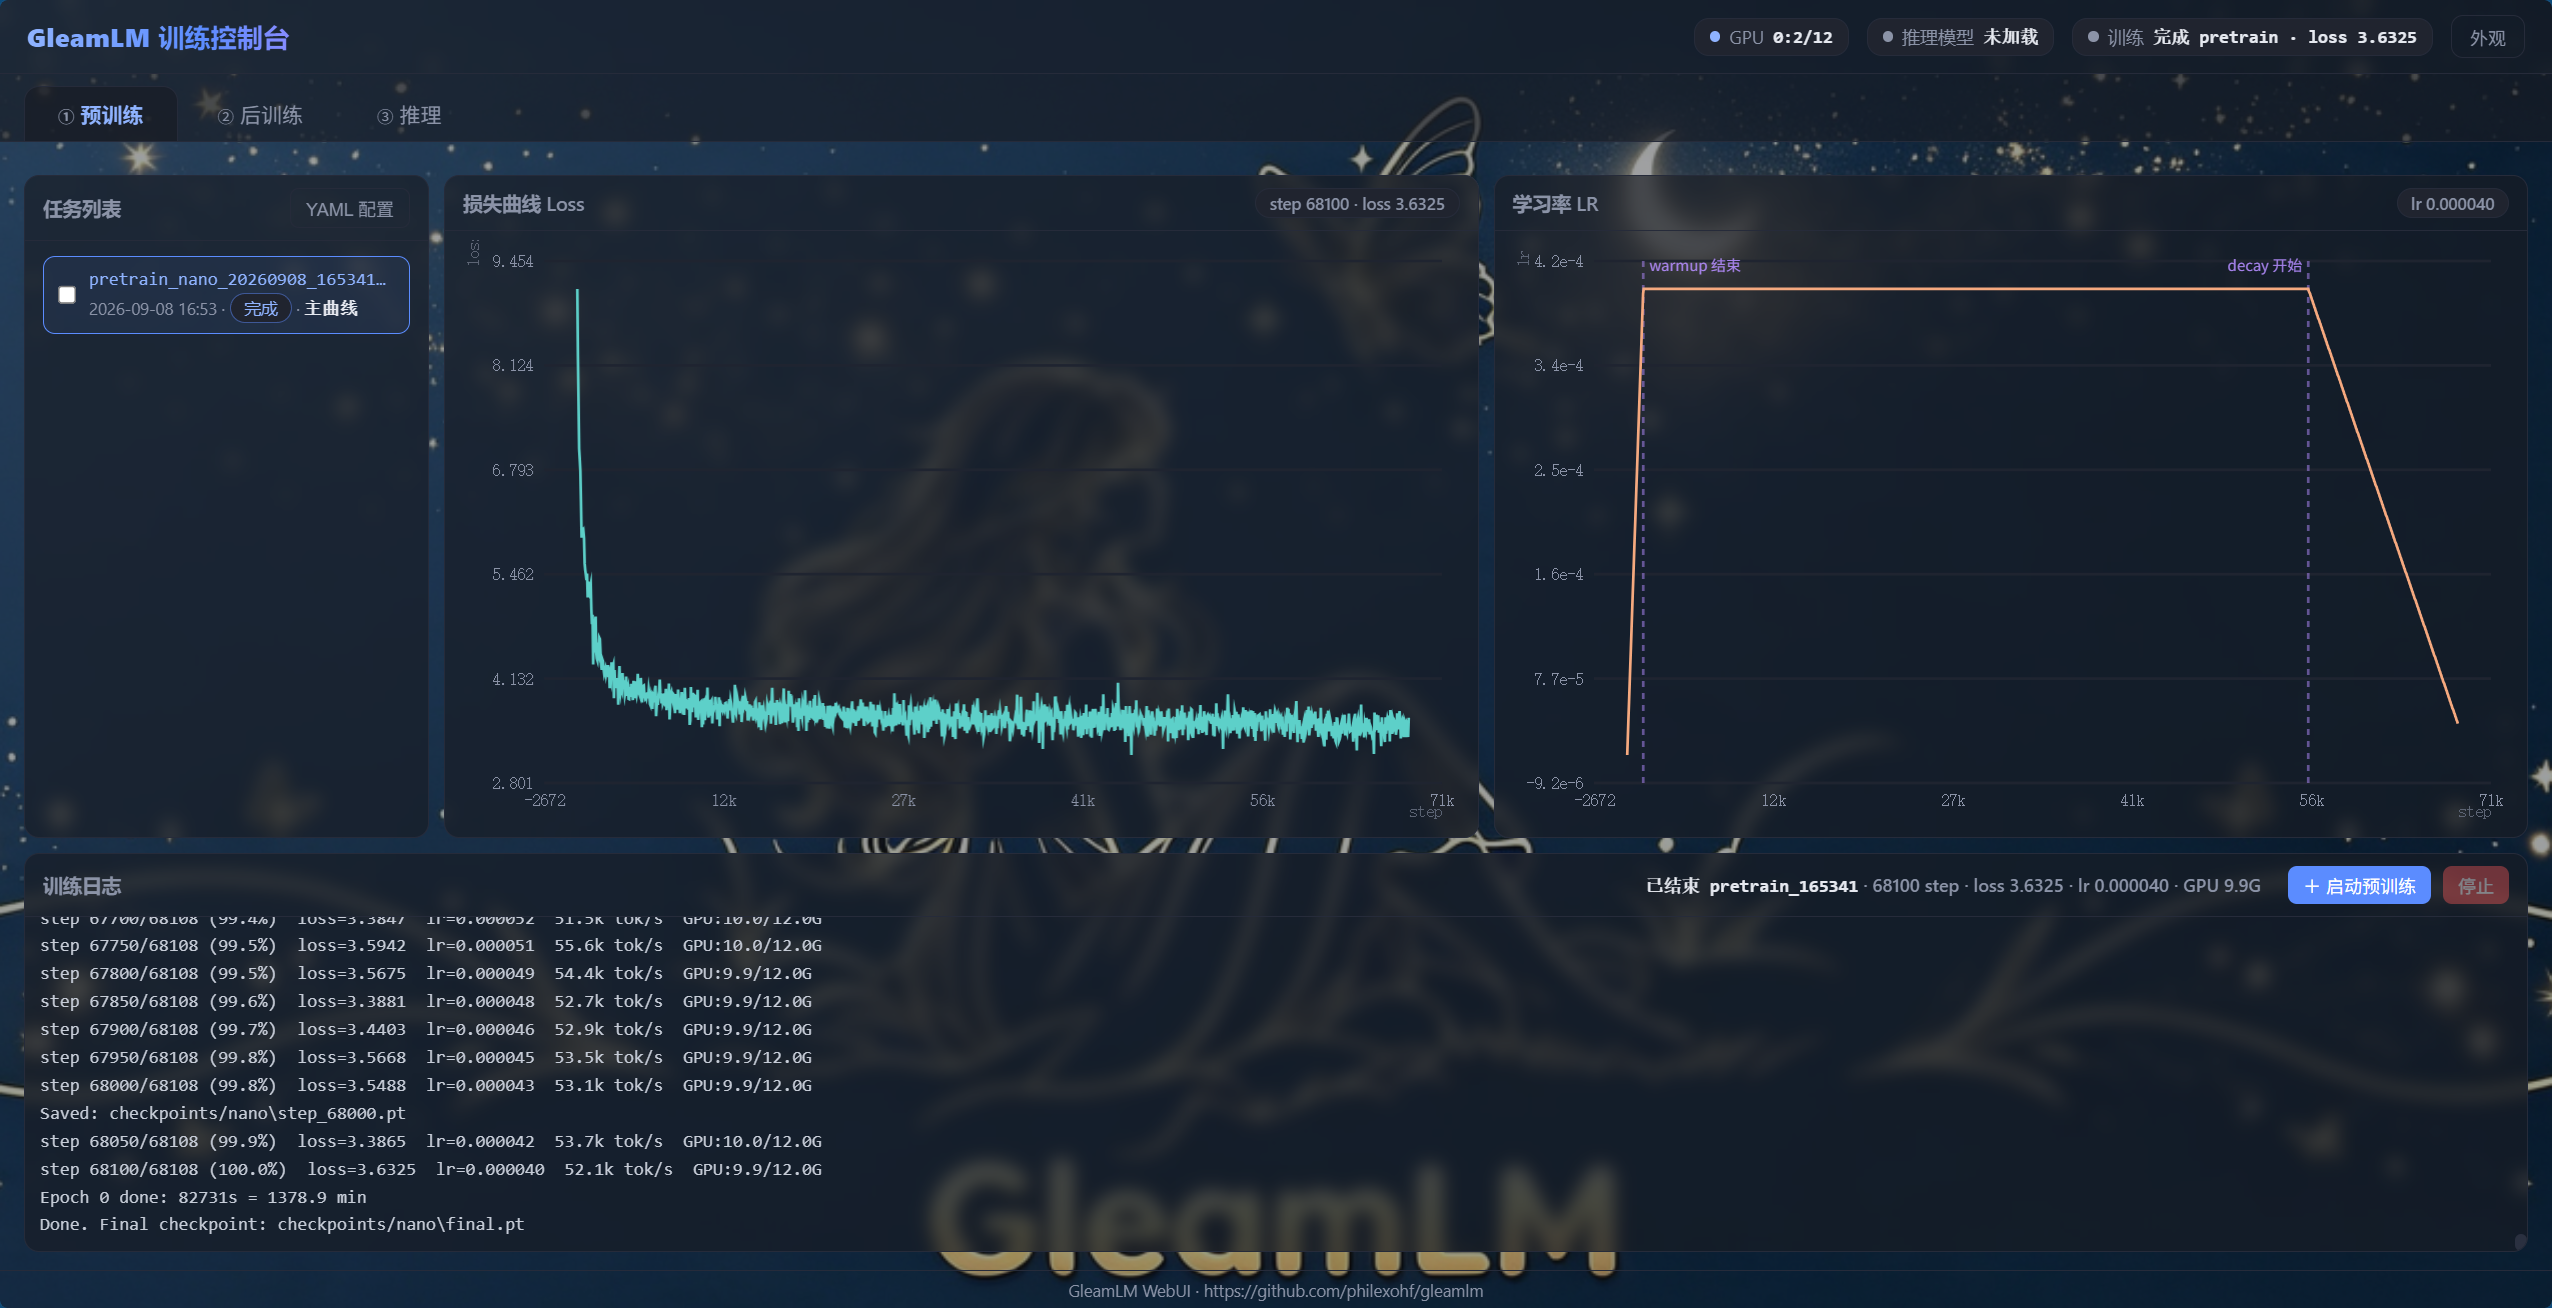
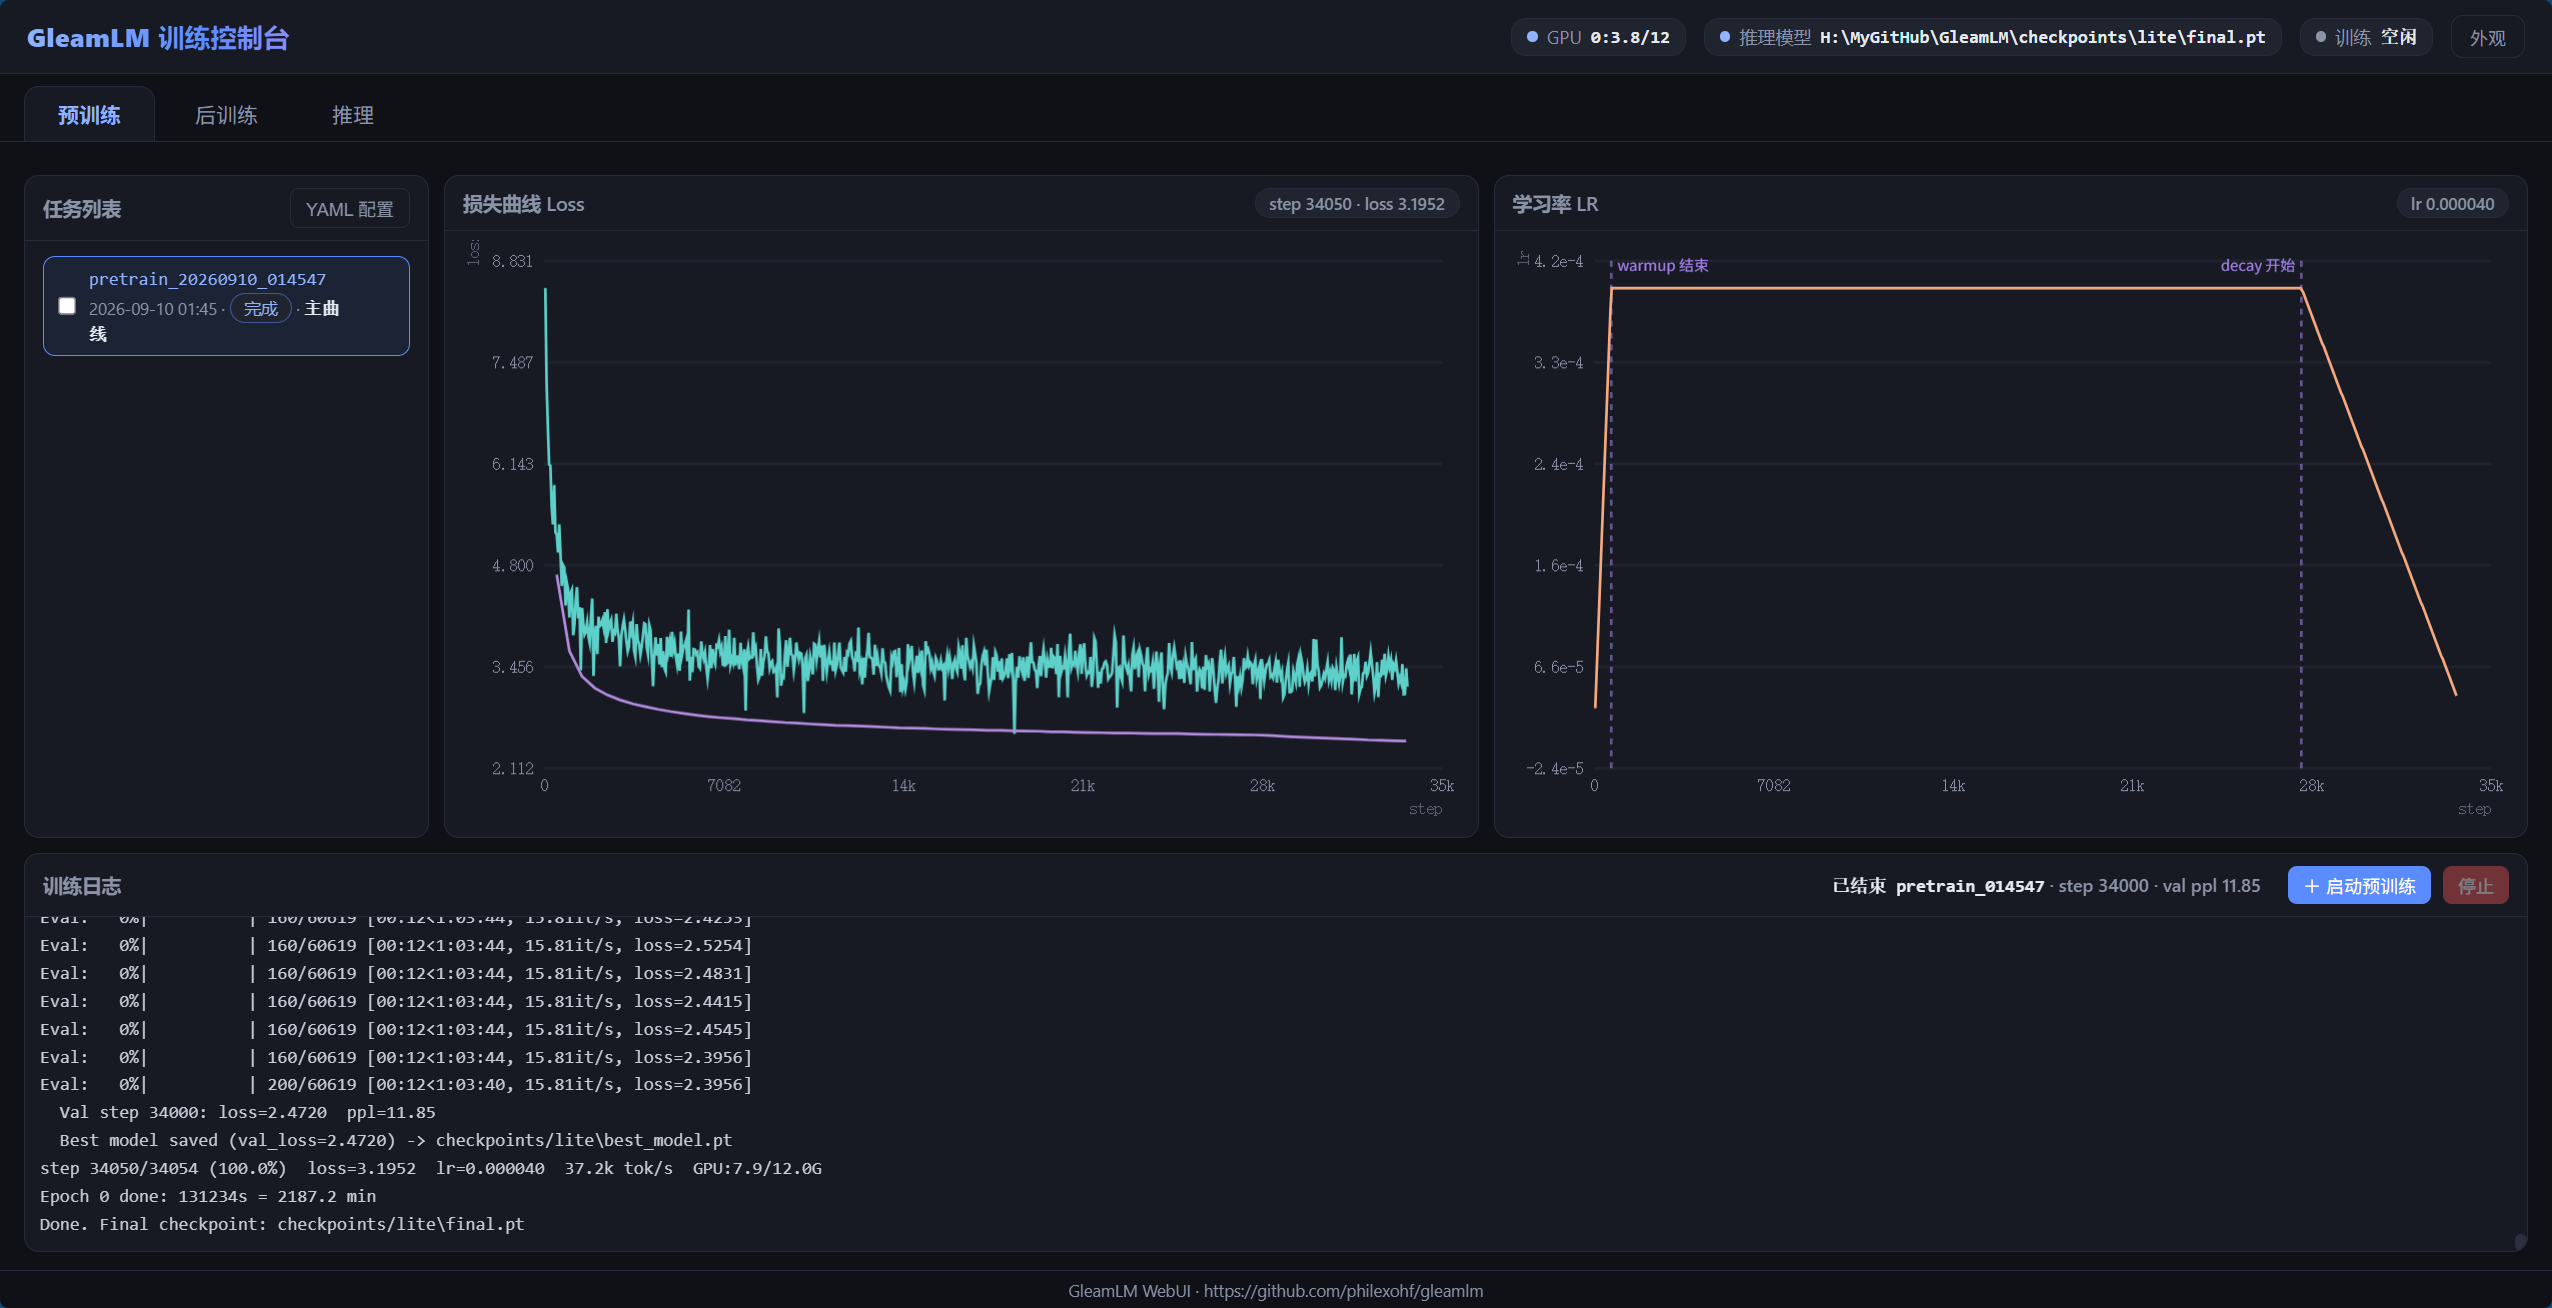
fix: live check requires running, auto replay on load
pretrain/posttrain live id helpers gated on running; replay clears log first; refresh GUI screenshot

diff --git a/webui/static/trainer.js b/webui/static/trainer.js
@@ -36,7 +36,11 @@ const trainer = {
     await this.refreshCandidates();
     if (st && st.run_id) {
       this.run = st;
-      this.bindRun(st.run_id, st.running === true, false);
+      if (st.running === true) {
+        this.bindRun(st.run_id, true, false);
+      } else {
+        this.replay(st.run_id); // 刚结束的 run：自动回放日志（只读），刷新即见
+      }
     }
     // 日志面板重绑（后端重启后 run 丢了但日志文件在: status 返回 running=false
     // 且无 run_id 时，runs 里最后一条 unfinished 的可手动点开重放 — 见各 tab）
@@ -254,6 +258,7 @@ const trainer = {
     this._sseGen++; // 换代: 在途旧连接（含其 exit/finally）不得污染本次回放
     if (this._sseCtl) this._sseCtl.abort();
     this._alive = false;
+    this.clearLog(); // 重放前清空日志面板：跨 run 点击不堆叠、重复回放不翻倍
     this.emit("metric", null); // 各 tab 切换主曲线数据源
     this.pollMetrics(runId);
     this.connectSse();

diff --git a/webui/static/pretrain.js b/webui/static/pretrain.js
@@ -26,7 +26,9 @@ function ptRunList() {
 
 function livePretrainId() {
   const st = trainer.run || {};
-  return st.task === "pretrain" && st.run_id ? st.run_id : null;
+  // 仅 running 时才算 live: 训练结束后 run_id 仍留在 status 里, 不检查会把
+  // 已完成的 run 继续当 live —— 拦掉 setMain 的日志回放、列表误挂 LIVE 徽章
+  return st.task === "pretrain" && st.running ? st.run_id : null;
 }
 
 /* ── 事件接入 ── */
@@ -43,7 +45,7 @@ function onStatus(st) {
     pt.live = false;
     renderStatusLine();
   }
-  if (liveId && st.running === false && pt.live) {
+  if (st.task === "pretrain" && st.run_id && !st.running && pt.live) {
     pt.live = false; // 刚结束的 pretrain run：曲线保留最后一帧
     renderStatusLine();
     loadRuns(false);

diff --git a/webui/static/posttrain.js b/webui/static/posttrain.js
@@ -36,7 +36,9 @@ function pt2RunList() {
 
 function liveTaskId() {
   const st = trainer.run || {};
-  return st.task && st.task !== "pretrain" ? st.run_id : null;
+  // 仅 running 时才算 live（同 livePretrainId: 已结束 run 不得再视为 live，
+  // 否则拦掉回放、列表误挂 LIVE 徽章）
+  return st.task && st.task !== "pretrain" && st.running ? st.run_id : null;
 }
 
 /* ── 阶段卡 ── */
